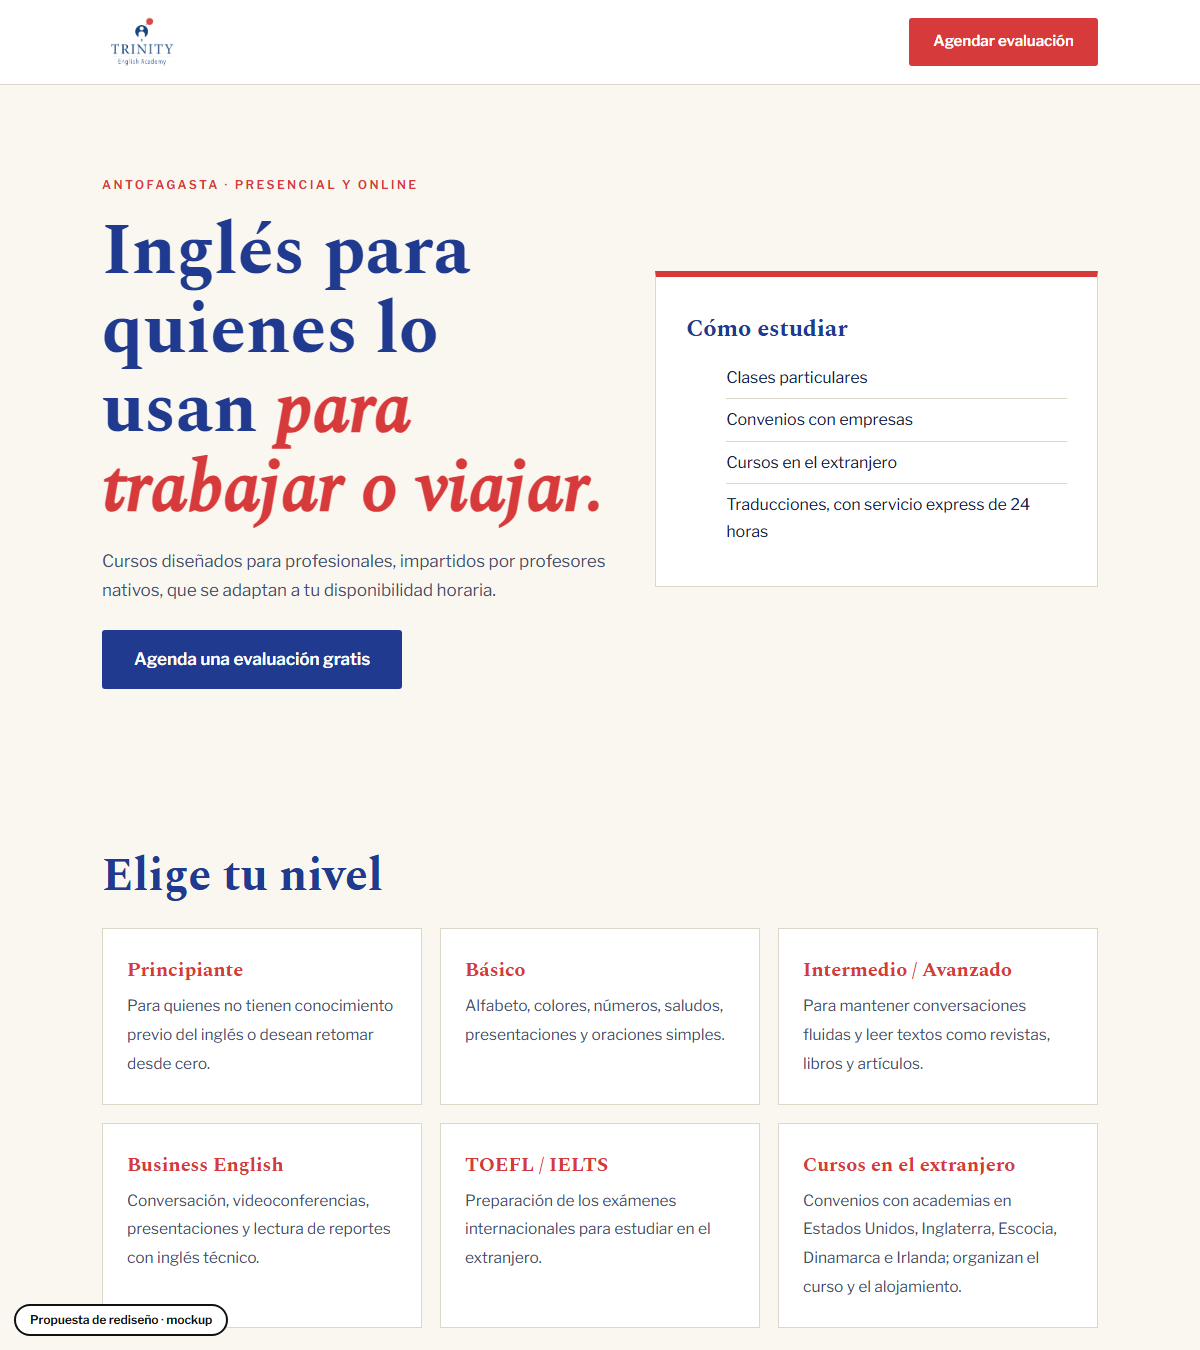
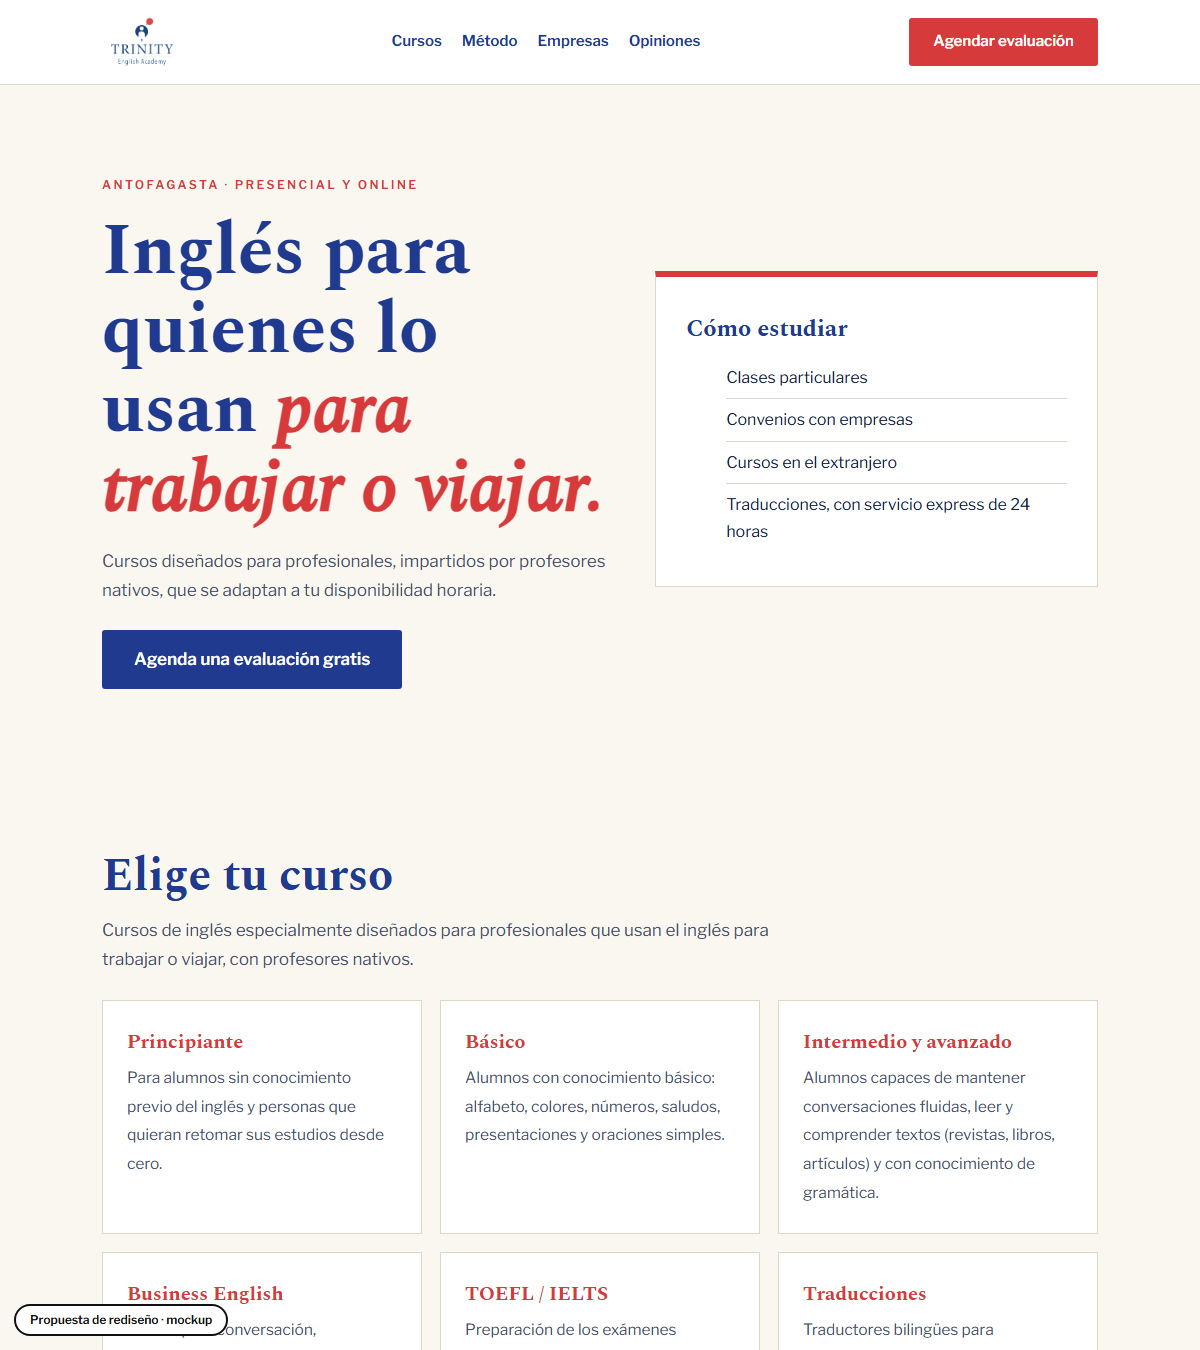
Mockup: trinity-english-academy-antofagasta

Changed region(s): [[0.0925, 0.6222, 0.6475, 0.9956], [0.6475, 0.7156, 0.8942, 0.9956]]

diff --git a/trinity-english-academy-antofagasta/index.html b/trinity-english-academy-antofagasta/index.html
@@ -6,12 +6,12 @@
 <link href="https://fonts.googleapis.com/css2?family=Spectral:ital,wght@0,500;0,700;1,500&family=Libre+Franklin:wght@400;500;600&display=swap" rel="stylesheet">
 <style>
 :root{--navy:#1f3a8f;--red:#d63a3a;--cream:#faf7f0;--ink:#16213f;--line:#ddd7c8}
-*{box-sizing:border-box;margin:0}html{scroll-behavior:smooth}
+*{box-sizing:border-box;margin:0}html{scroll-behavior:smooth;scroll-padding-top:100px}
 @media(prefers-reduced-motion:reduce){html{scroll-behavior:auto}}
 body{background:var(--cream);color:var(--ink);font:400 17px/1.7 'Libre Franklin',sans-serif}
 .wrap{max-width:1040px;margin:0 auto;padding:0 22px}
 h1,h2,h3{font-family:Spectral,serif;line-height:1.1}
-header{background:#fff;border-bottom:1px solid var(--line)}header .wrap{display:flex;justify-content:space-between;align-items:center;min-height:84px;gap:14px}
+header{position:sticky;top:0;z-index:20;background:#fff;border-bottom:1px solid var(--line)}header .wrap{display:flex;justify-content:space-between;align-items:center;min-height:84px;gap:14px}
 header img{height:60px}header a.b{background:var(--red);color:#fff;text-decoration:none;padding:11px 24px;font-weight:600;font-size:15px;border-radius:3px}
 header a.b:hover{background:var(--navy)}
 .hero .wrap{display:grid;grid-template-columns:1.15fr 1fr;gap:44px;align-items:center;padding:84px 22px}
@@ -31,13 +31,22 @@ section{padding:78px 0}h2{font-size:clamp(30px,4.4vw,46px);margin-bottom:14px;co
 .contact{text-align:center}.contact a.l{display:block;font:italic 500 clamp(32px,5.4vw,56px) Spectral;color:var(--navy);text-decoration:none;margin:10px 0}
 .contact a.l:hover{color:var(--red)}
 footer{padding:22px 0 90px;text-align:center;font-size:13px;opacity:.6}
-.mock{position:fixed;left:14px;bottom:14px;background:#fff;color:#111;border:2px solid #111;font:600 12px/1 'Libre Franklin';padding:8px 14px;border-radius:30px;z-index:9}
+.mock{z-index:30;position:fixed;left:14px;bottom:14px;background:#fff;color:#111;border:2px solid #111;font:600 12px/1 'Libre Franklin';padding:8px 14px;border-radius:30px;z-index:9}
 @media(max-width:820px){.hero .wrap,.biz .g{grid-template-columns:1fr}.lv{grid-template-columns:1fr}.hero .wrap{padding:48px 22px}}
-</style></head><body>
-<header><div class="wrap"><img src="assets/logo.png" alt="Trinity English Academy"><a class="b" href="#contacto">Agendar evaluación</a></div></header>
+nav{display:flex;gap:20px;font-size:15px;font-weight:600}nav a{color:var(--navy);text-decoration:none}nav a:hover{color:var(--red)}.cl{display:flex;flex-wrap:wrap;gap:10px;margin:14px 0 22px}.cl span{border:1px solid #6a7fc4;border-radius:30px;padding:5px 16px;font-size:14.5px;color:#e4e9fb}.met{display:grid;grid-template-columns:repeat(3,1fr);gap:16px;margin-top:26px}.met>div{border-top:4px solid var(--red);padding-top:14px}.met b{font:700 22px Spectral;color:var(--navy);display:block;margin-bottom:4px}.met span{font-size:15.5px;color:#46506d}.rev{display:grid;grid-template-columns:repeat(2,1fr);gap:16px;margin-top:26px}.rev blockquote{background:#fff;border:1px solid var(--line);border-left:5px solid var(--red);padding:26px;font:500 italic 19px/1.45 Spectral;color:var(--ink)}.rev cite{display:block;margin-top:10px;font:600 13px "Libre Franklin";font-style:normal;letter-spacing:.08em;text-transform:uppercase;color:#6a7390}.lang{display:flex;flex-wrap:wrap;gap:8px;margin-top:16px}.lang span{background:var(--navy);color:#fff;padding:5px 14px;font-size:14px;font-weight:600;border-radius:3px}@media(max-width:860px){nav{display:none}.met,.rev{grid-template-columns:1fr}}</style></head><body>
+<header><div class="wrap"><img src="assets/logo.png" alt="Trinity English Academy"><nav><a href="#niveles">Cursos</a><a href="#metodo">Método</a><a href="#empresas">Empresas</a><a href="#opiniones">Opiniones</a></nav><a class="b" href="#contacto">Agendar evaluación</a></div></header>
 <div class="hero"><div class="wrap"><div><small>Antofagasta · Presencial y online</small><h1>Inglés para quienes lo usan <em>para trabajar o viajar.</em></h1><p>Cursos diseñados para profesionales, impartidos por profesores nativos, que se adaptan a tu disponibilidad horaria.</p><a class="btn" href="https://wa.me/56991424379?text=Hola%2C%20quisiera%20agendar%20una%20evaluaci%C3%B3n%20gratuita">Agenda una evaluación gratis</a></div><div class="card"><b>Cómo estudiar</b><ul><li>Clases particulares</li><li>Convenios con empresas</li><li>Cursos en el extranjero</li><li>Traducciones, con servicio express de 24 horas</li></ul></div></div></div>
-<section><div class="wrap"><h2>Elige tu nivel</h2><div class="lv"><div><b>Principiante</b><span>Para quienes no tienen conocimiento previo del inglés o desean retomar desde cero.</span></div><div><b>Básico</b><span>Alfabeto, colores, números, saludos, presentaciones y oraciones simples.</span></div><div><b>Intermedio / Avanzado</b><span>Para mantener conversaciones fluidas y leer textos como revistas, libros y artículos.</span></div><div><b>Business English</b><span>Conversación, videoconferencias, presentaciones y lectura de reportes con inglés técnico.</span></div><div><b>TOEFL / IELTS</b><span>Preparación de los exámenes internacionales para estudiar en el extranjero.</span></div><div><b>Cursos en el extranjero</b><span>Convenios con academias en Estados Unidos, Inglaterra, Escocia, Dinamarca e Irlanda; organizan el curso y el alojamiento.</span></div></div></div></section>
-<section class="biz"><div class="wrap g"><div><h2>Inglés para empresas</h2><p>Clientes individuales de empresas como BHP, Minera Escondida, Glencore, Codelco, Compañía Minera Zaldívar, Komatsu y Aguas Antofagasta.</p><p>Contratos ampliados con empresas como BHP, Minera Escondida, Lomas Bayas, Altonorte, Liebherr, Enaex, Yamana Gold y Bridgestone Tires.</p></div><div><h2>¿Por qué TEA?</h2><p><b>Flexibilidad:</b> nos adaptamos a la disponibilidad horaria de nuestros estudiantes, con clases online o presenciales.</p></div></div></section>
+<section id="niveles"><div class="wrap"><h2>Elige tu curso</h2><p style="max-width:62ch;color:#46506d">Cursos de inglés especialmente diseñados para profesionales que usan el inglés para trabajar o viajar, con profesores nativos.</p><div class="lv">
+<div><b>Principiante</b><span>Para alumnos sin conocimiento previo del inglés y personas que quieran retomar sus estudios desde cero.</span></div>
+<div><b>Básico</b><span>Alumnos con conocimiento básico: alfabeto, colores, números, saludos, presentaciones y oraciones simples.</span></div>
+<div><b>Intermedio y avanzado</b><span>Alumnos capaces de mantener conversaciones fluidas, leer y comprender textos (revistas, libros, artículos) y con conocimiento de gramática.</span></div>
+<div><b>Business English</b><span>Cursos para conversación, videoconferencias, presentaciones y lectura de reportes, con un inglés más técnico.</span></div>
+<div><b>TOEFL / IELTS</b><span>Preparación de los exámenes internacionales para lograr el resultado que necesitas para estudiar en el extranjero.</span></div>
+<div><b>Traducciones</b><span>Traductores bilingües para presentaciones, documentos técnicos o de negocios, del español al inglés y viceversa, con servicio express de 24 horas.</span></div></div></div></section>
+<section style="padding-top:0"><div class="wrap"><h2>Cursos en el extranjero</h2><p style="max-width:66ch;color:#46506d">Convenios con academias de inglés en Estados Unidos (New York, Boston, Las Vegas, Phoenix), Inglaterra (Londres), Escocia (Glasgow), Dinamarca (Copenhague) e Irlanda (Cork, Dublín y Belfast). Organizan tu curso, full time o part time, y el alojamiento.</p></div></section>
+<section id="metodo" style="padding-top:0"><div class="wrap"><h2>Cómo aprendes en TEA</h2><div class="met"><div><b>Flexibilidad</b><span>Se adaptan a tu disponibilidad horaria, con clases online o presenciales.</span></div><div><b>Clases a tu medida</b><span>Diseñadas según tus necesidades de comunicación, reuniones o presentaciones. Clases particulares y convenios con empresas.</span></div><div><b>Profesores nativos</b><span>De EE. UU., Irlanda, Canadá y Reino Unido, y chilenos 100% bilingües.</span></div></div><div class="lang"><span>Lunes a sábado · 08:00 a 20:00</span><span>Online y presencial</span></div></div></section>
+<section class="biz" id="empresas"><div class="wrap g"><div><h2>Inglés para empresas</h2><p>TEA trabaja con empresas de todo Chile, que confían en la academia para aprender inglés de una manera innovadora.</p><p><b>Clientes individuales</b> de empresas como:</p><div class="cl"><span>BHP</span><span>Minera Escondida</span><span>Glencore</span><span>Codelco</span><span>Compañía Minera Zaldívar</span><span>Komatsu</span><span>Aguas Antofagasta</span></div><p><b>Contratos ampliados</b> con empresas como:</p><div class="cl"><span>BHP</span><span>Minera Escondida</span><span>Lomas Bayas</span><span>Altonorte</span><span>Liebherr</span><span>Enaex</span><span>Yamana Gold</span><span>Bridgestone Tires</span></div></div><div><h2>¿Por qué TEA?</h2><p><b>Flexibilidad:</b> un profesor nativo que se adapta a tu vida y tus horarios es una excelente forma de dedicarle tiempo al inglés.</p><p><b>Foco en tu trabajo:</b> clases enfocadas en lo que necesitas para reuniones, presentaciones y reportes.</p></div></div></section>
+<section id="opiniones"><div class="wrap"><h2>Lo que dicen sus alumnos</h2><div class="rev"><blockquote>“Un sistema de aprendizaje flexible, simple y claro, con un proceso de hablar inglés sin vergüenza.”<cite>Alumno de TEA</cite></blockquote><blockquote>“Las clases se enfocan en inglés de negocios, escrito y hablado, con los conceptos específicos para mejorar mi trabajo.”<cite>Profesional de minería, alumno de TEA</cite></blockquote><blockquote>“El profesor adapta las clases a mis horarios y necesidades de aprendizaje, y es muy empático y cercano.”<cite>Alumno de TEA</cite></blockquote><blockquote>“Una metodología simple, clara y enfocada en tus necesidades y nivel. Tener un profesor nativo ha ayudado mucho.”<cite>Alumno de TEA</cite></blockquote></div></div></section>
 <section class="contact" id="contacto"><div class="wrap"><h2>Agenda tu evaluación gratis</h2><a class="l" href="https://wa.me/56991424379">+56 9 9142 4379</a><p>Av. Jaime Guzmán Errázuriz 04200, depto. 303, Antofagasta<br><a style="color:var(--navy)" href="mailto:info@cursostea.cl">info@cursostea.cl</a></p></div></section>
 <footer>TRINITY ENGLISH ACADEMY · TEA · ANTOFAGASTA</footer>
 <div class="mock">Propuesta de rediseño · mockup</div></body></html>
